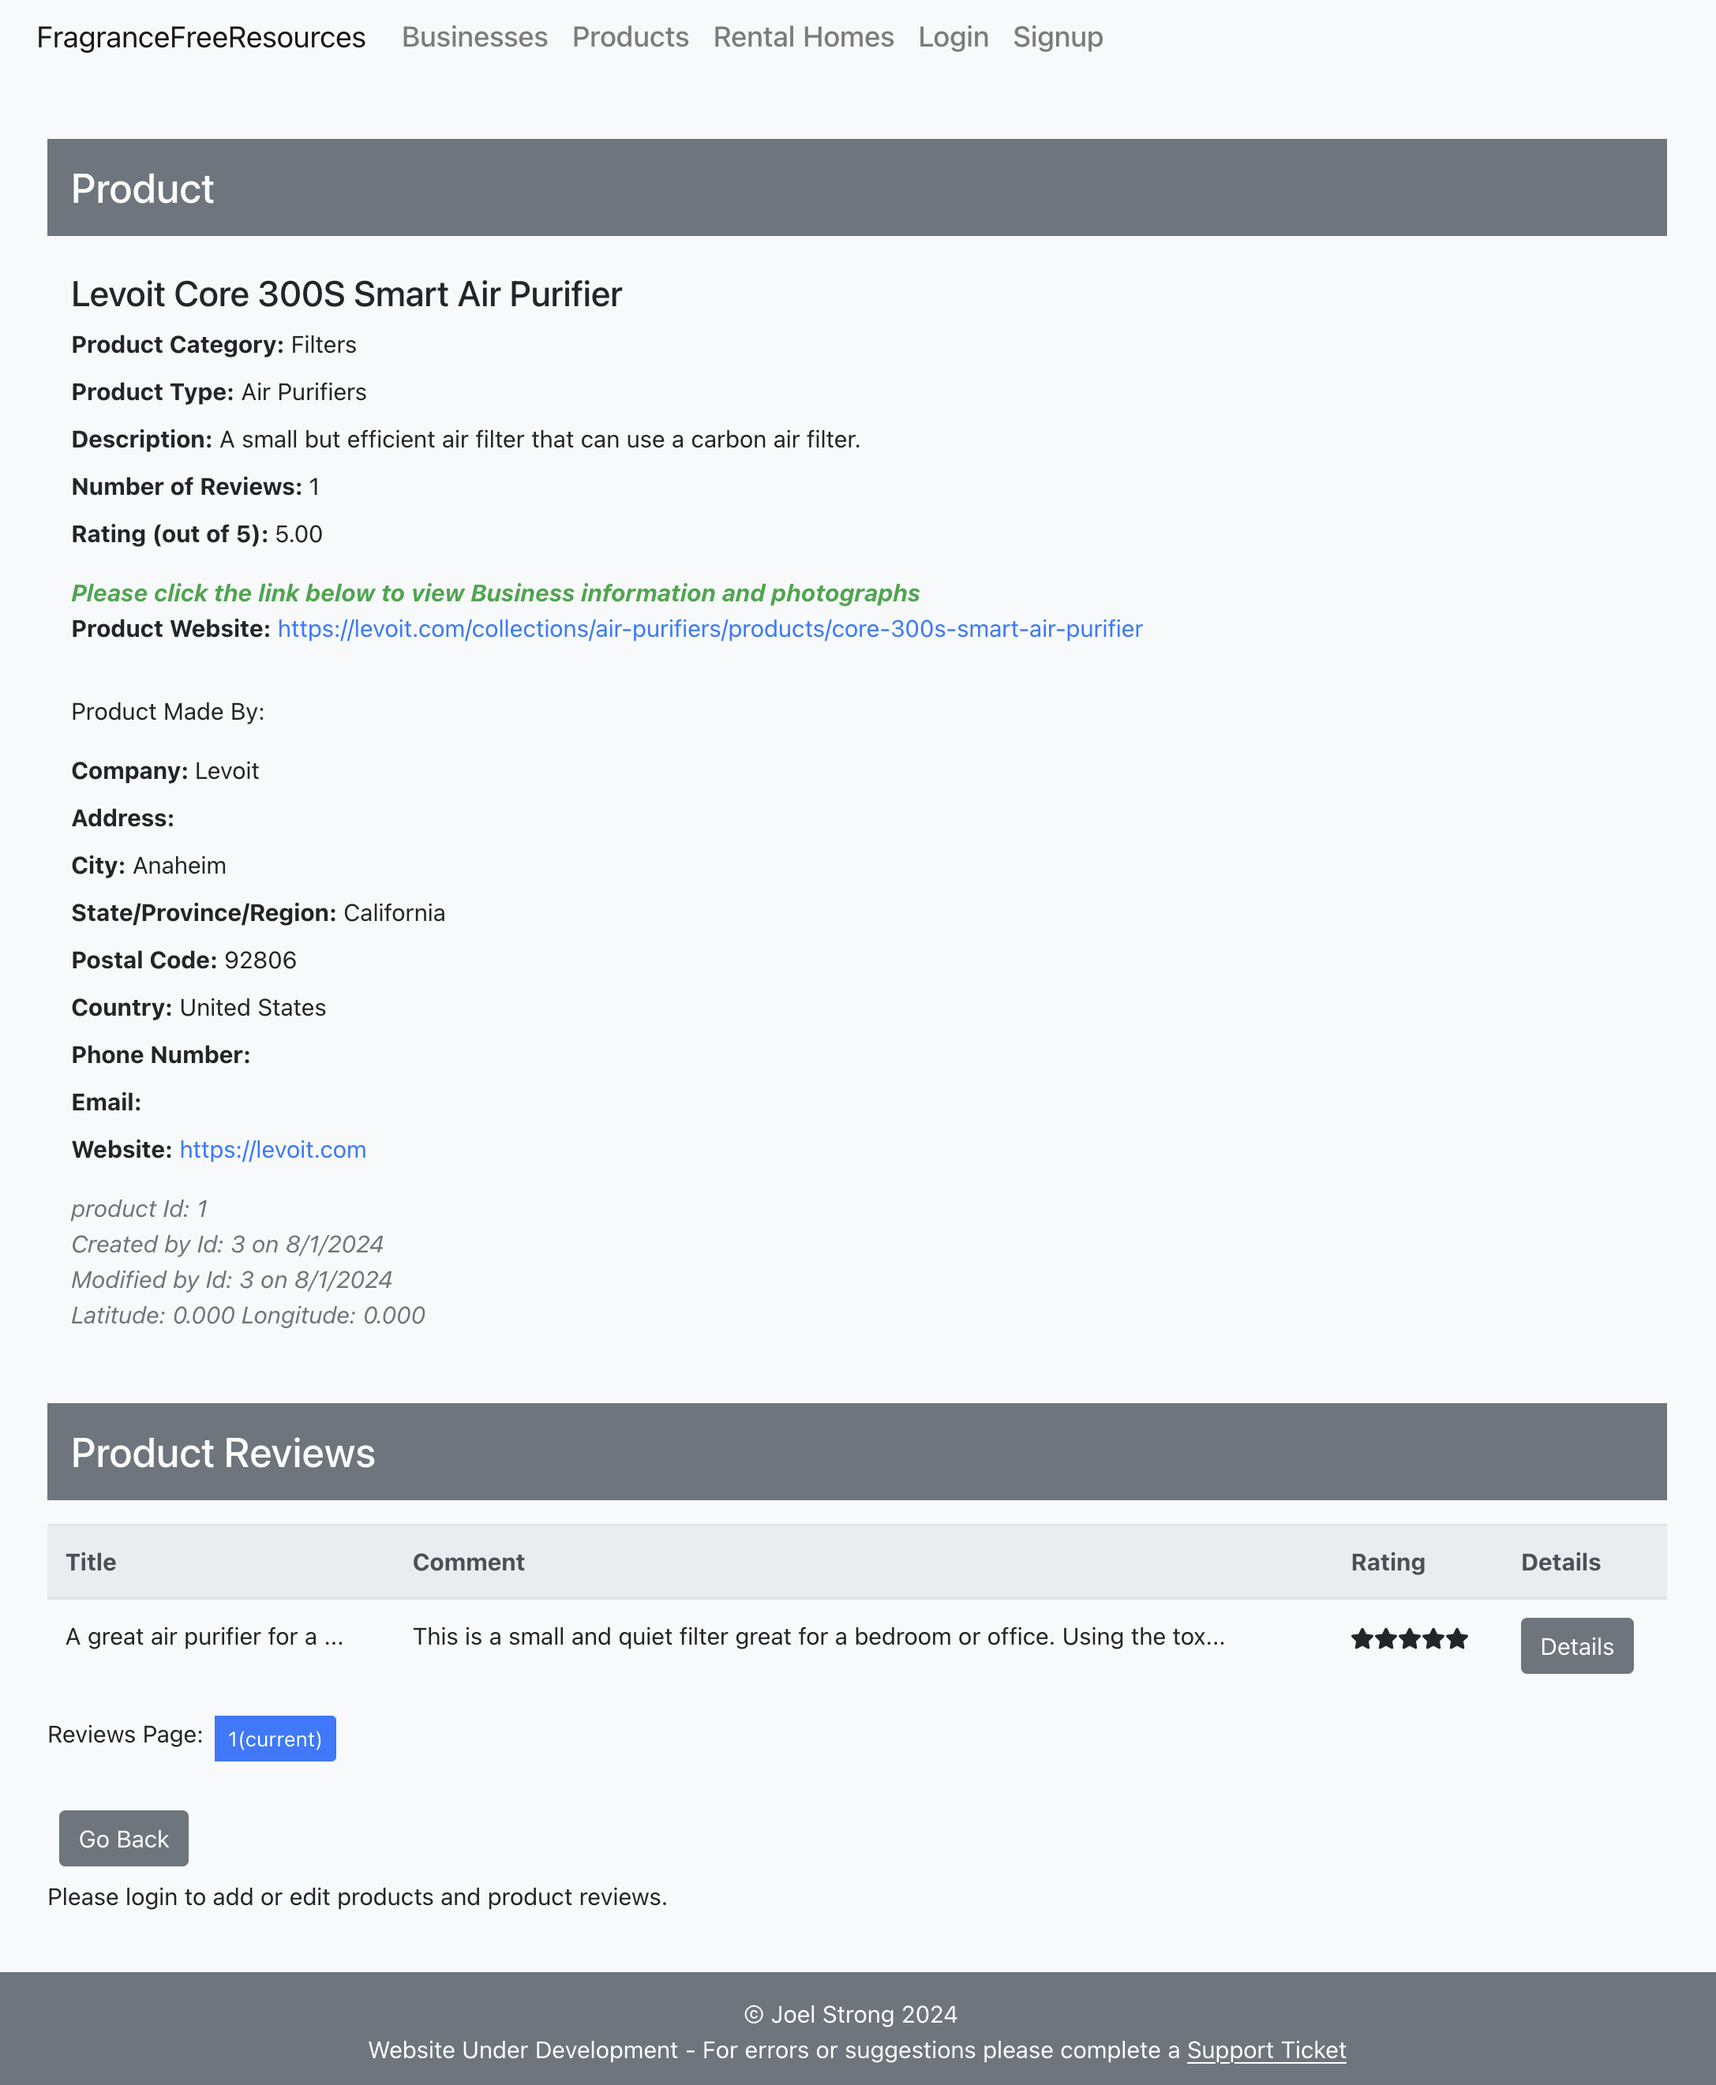
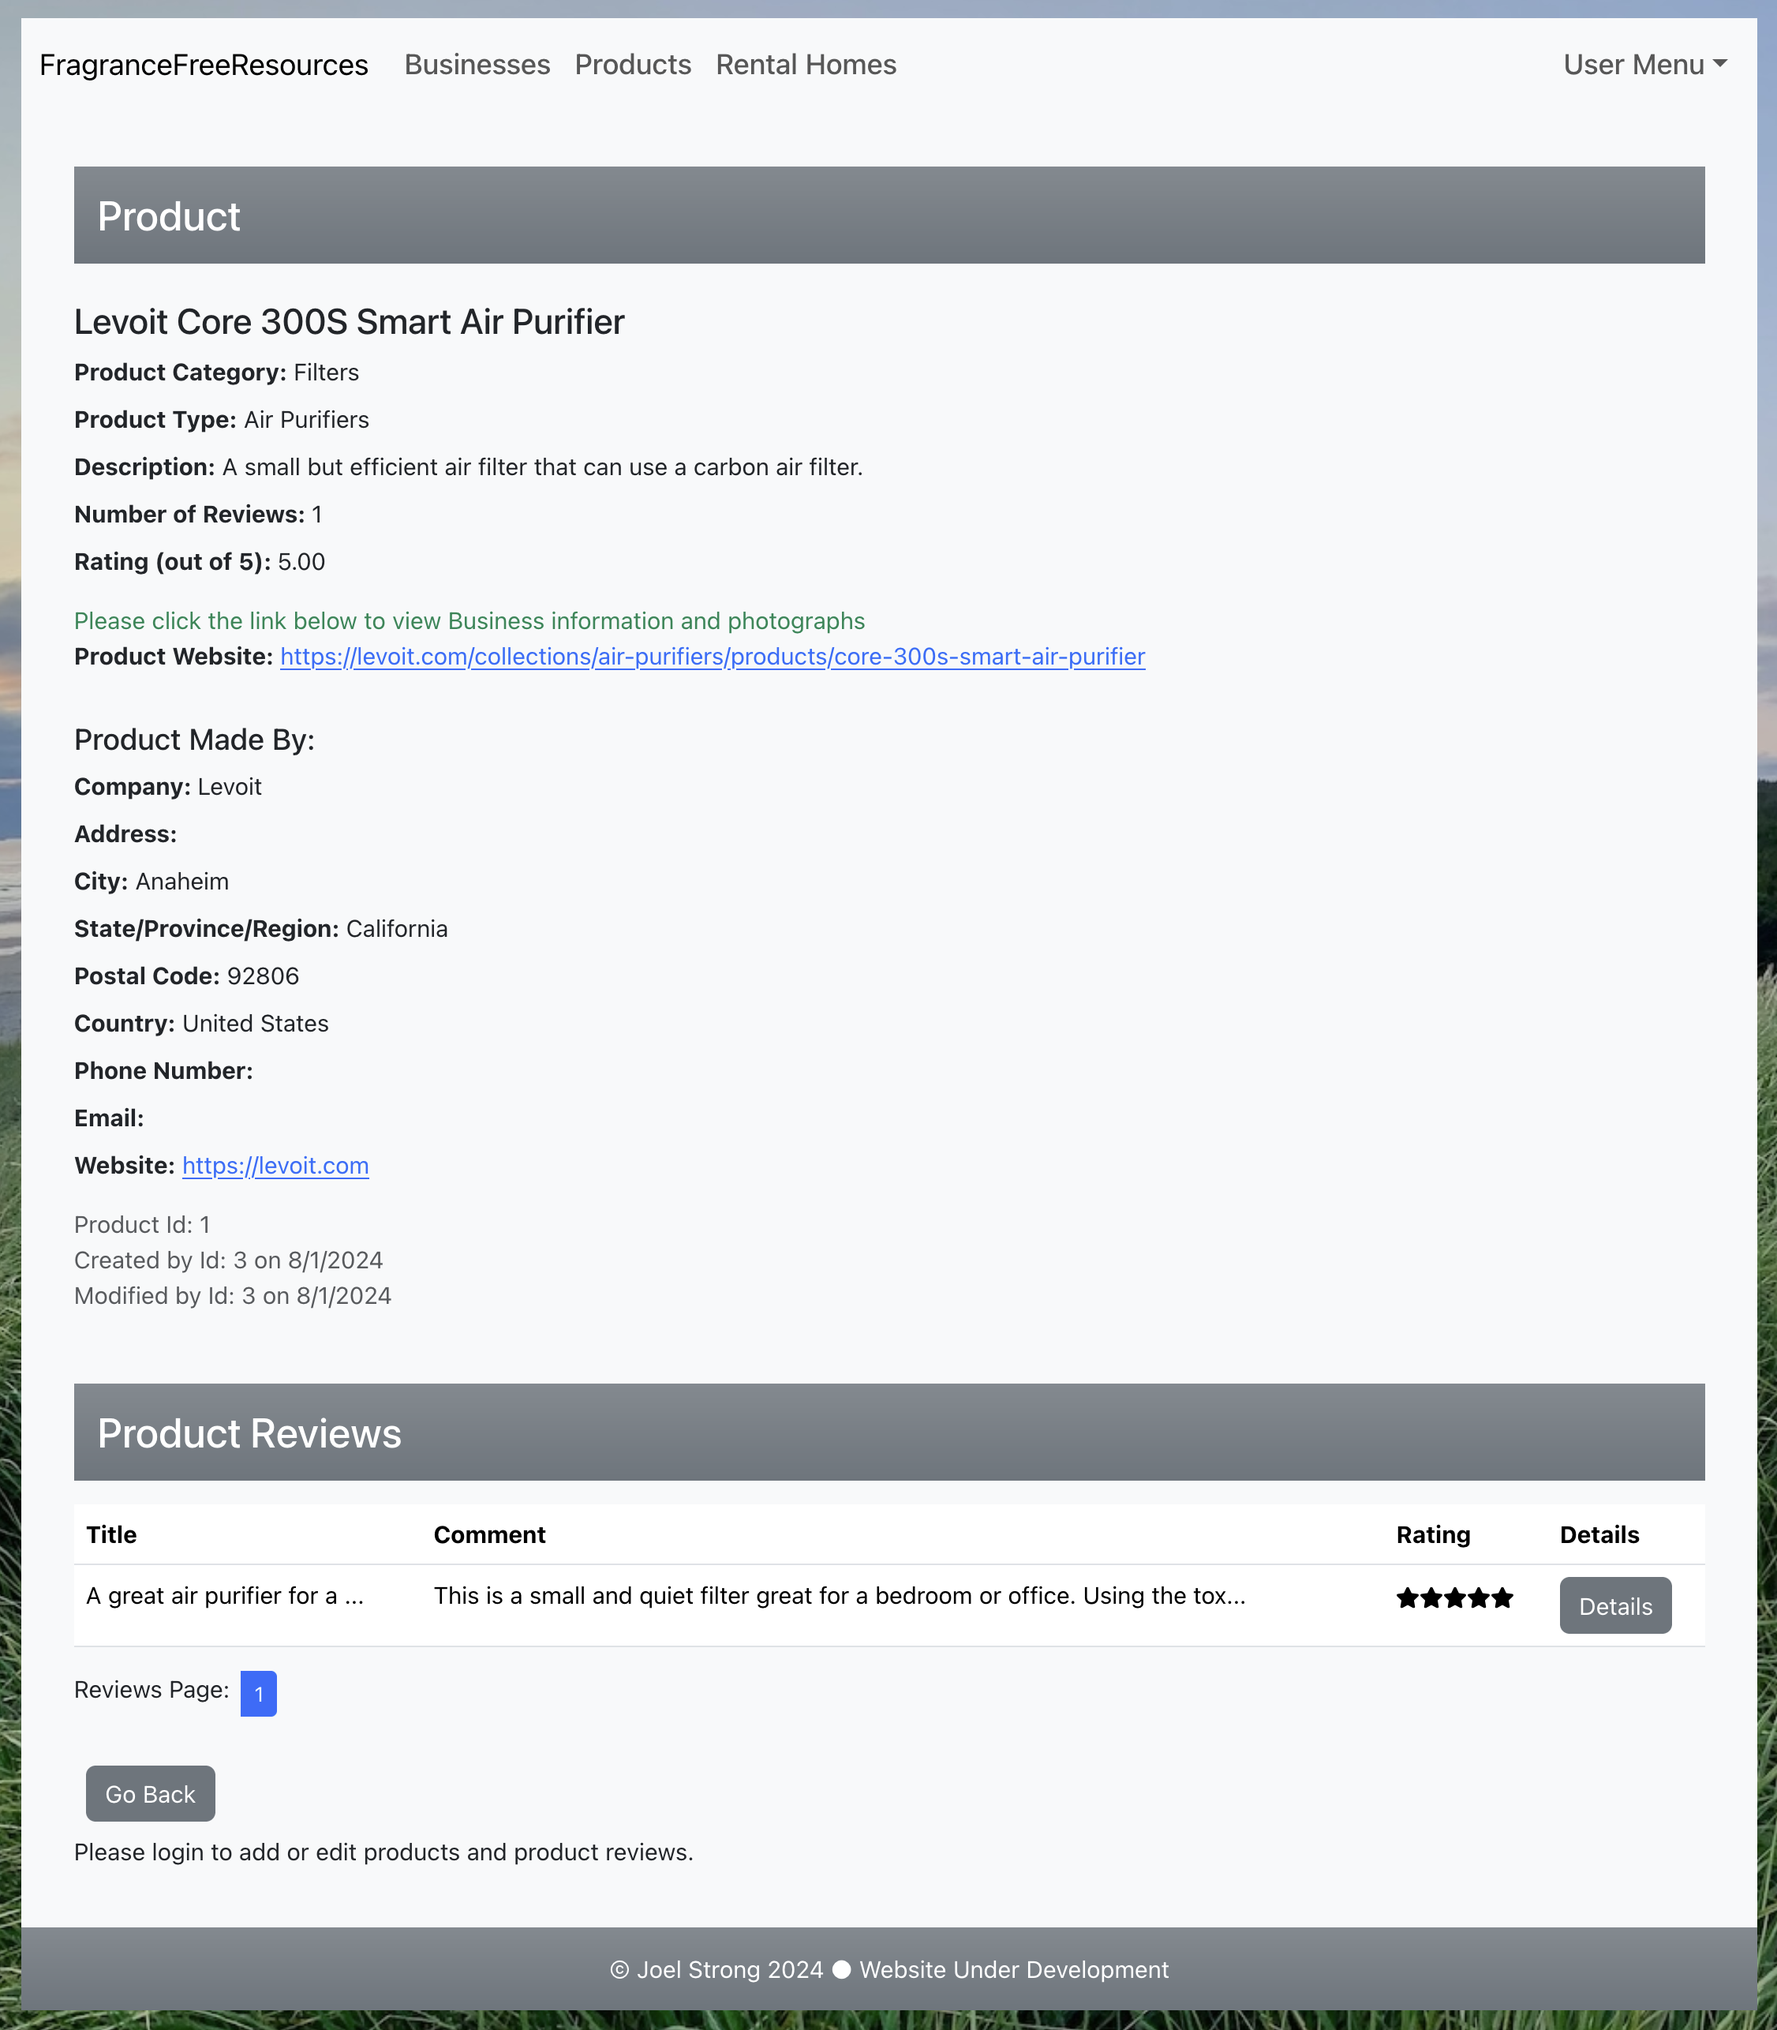
Updated FFR images used in the portfolio.

Changed region(s): [[0.0, 0.0, 1.0, 1.0], [0.4623, 0.1866, 0.4931, 0.2177], [0.4006, 0.2177, 0.4315, 0.2488]]

diff --git a/src/components/Projects/Ffr.js b/src/components/Projects/Ffr.js
@@ -87,8 +87,8 @@ function Ffr() {
 
                 <div className="centered">
                     <figure>
-                        <img width="900px" alt="product user review modal" src="/images/FFR-User.png"/>
-                        <figcaption>User View of a Product with an active Review modal</figcaption>
+                        <img width="900px" alt="product user review modal" src="/images/FFR-Admin.png"/>
+                        <figcaption>Administrator View of a Product with an active Review modal</figcaption>
                     </figure>
                 </div>
 

diff --git a/src/App.css b/src/App.css
@@ -73,7 +73,6 @@
   display: flex;
   flex-direction: column;
   align-items: center;
-
   padding: 30px 8px 30px 8px;
   width: 325px;
   background: linear-gradient(180deg, var(--blueberry) 0%, var(--color-cream) 120%);
